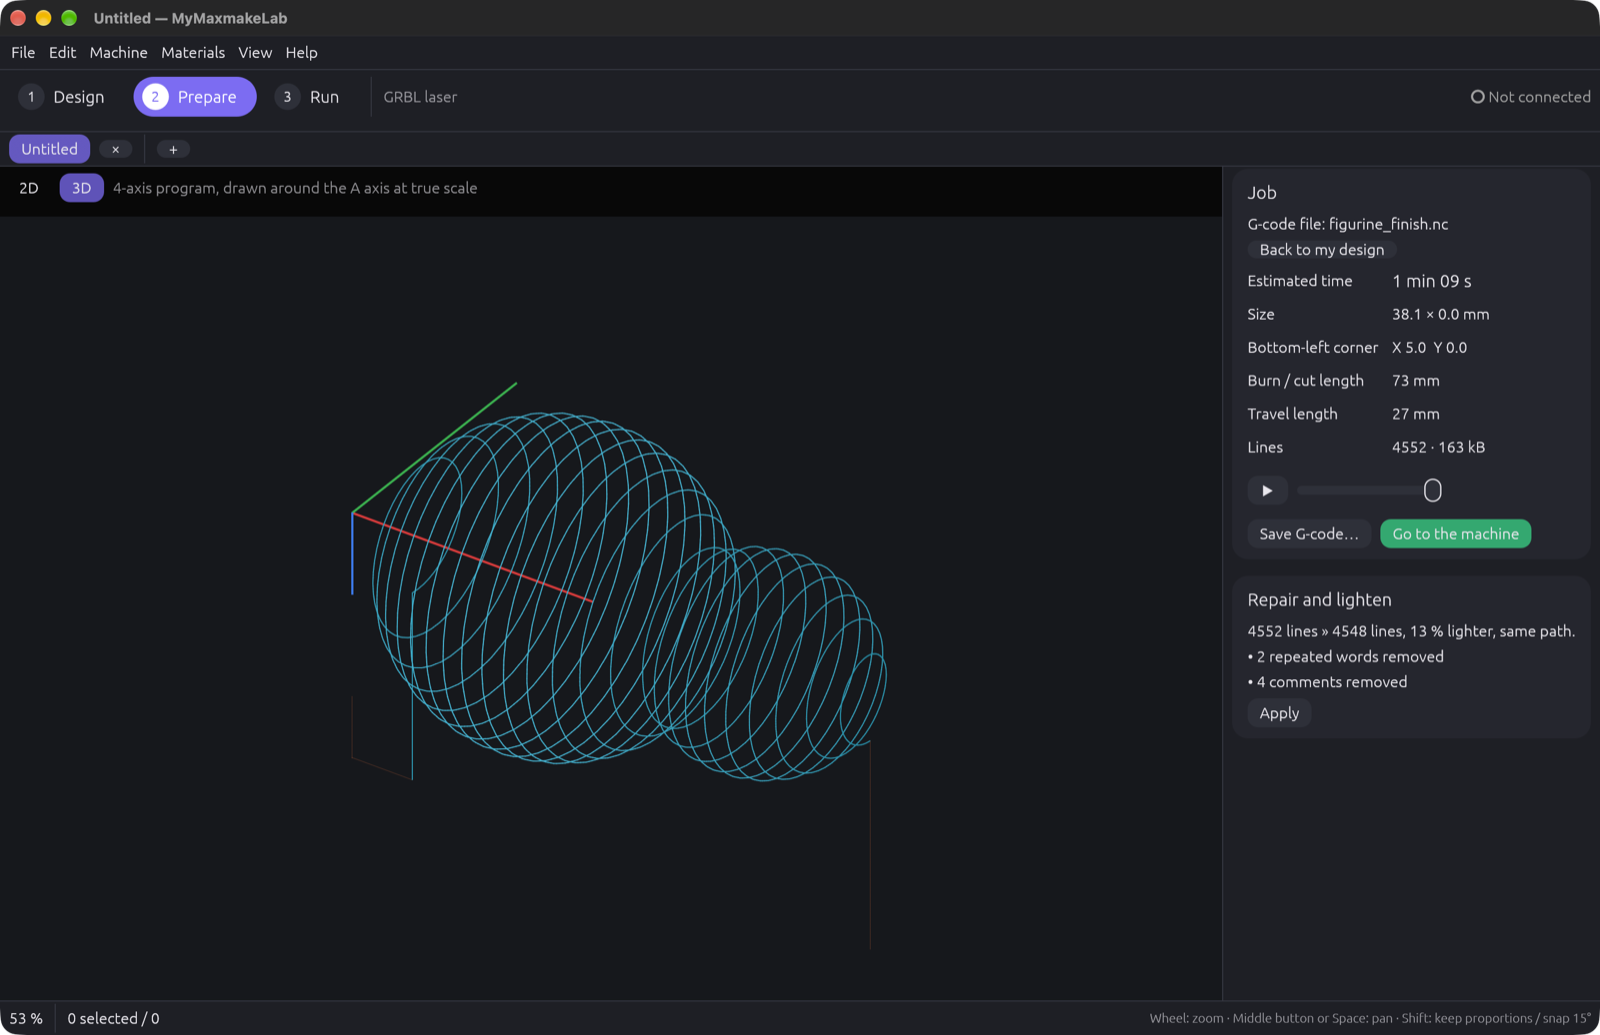
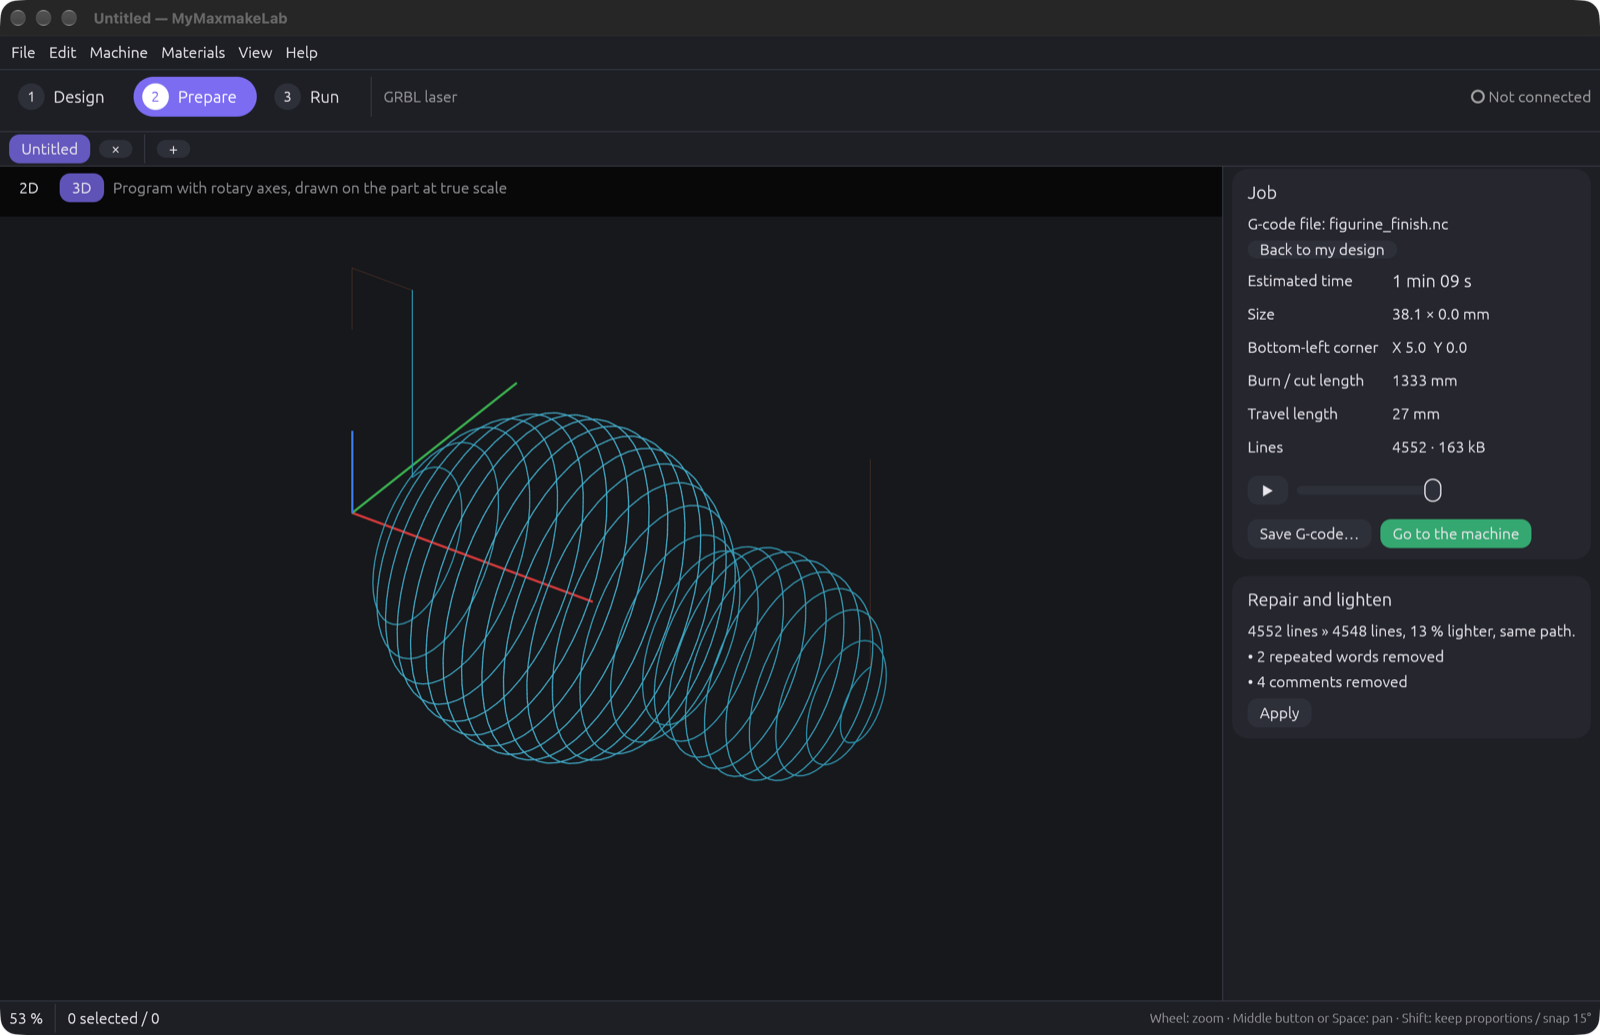
[FIX] mml_app: 3D view showed Z upside down
The projection subtracted the height instead of adding it: the Z axis
arrow pointed down and every relief, imprint and probed surface was
drawn flipped, a peak looking like a hole. Found while checking the
mold imprint. The README pictures taken with the flipped view are
retaken.

diff --git a/crates/mml_app/src/view3d.rs b/crates/mml_app/src/view3d.rs
@@ -42,7 +42,8 @@ impl View3d {
         let rx = x * cos_yaw - y * sin_yaw;
         let ry = x * sin_yaw + y * cos_yaw;
         let (sin_pitch, cos_pitch) = self.pitch.sin_cos();
-        let screen_y = ry * cos_pitch - z * sin_pitch;
+        // Pitch 0 looks straight down, 90° from the side: +Z goes up.
+        let screen_y = ry * cos_pitch + z * sin_pitch;
         origin + self.pan + Vec2::new(rx, -screen_y) * scale
     }
 
